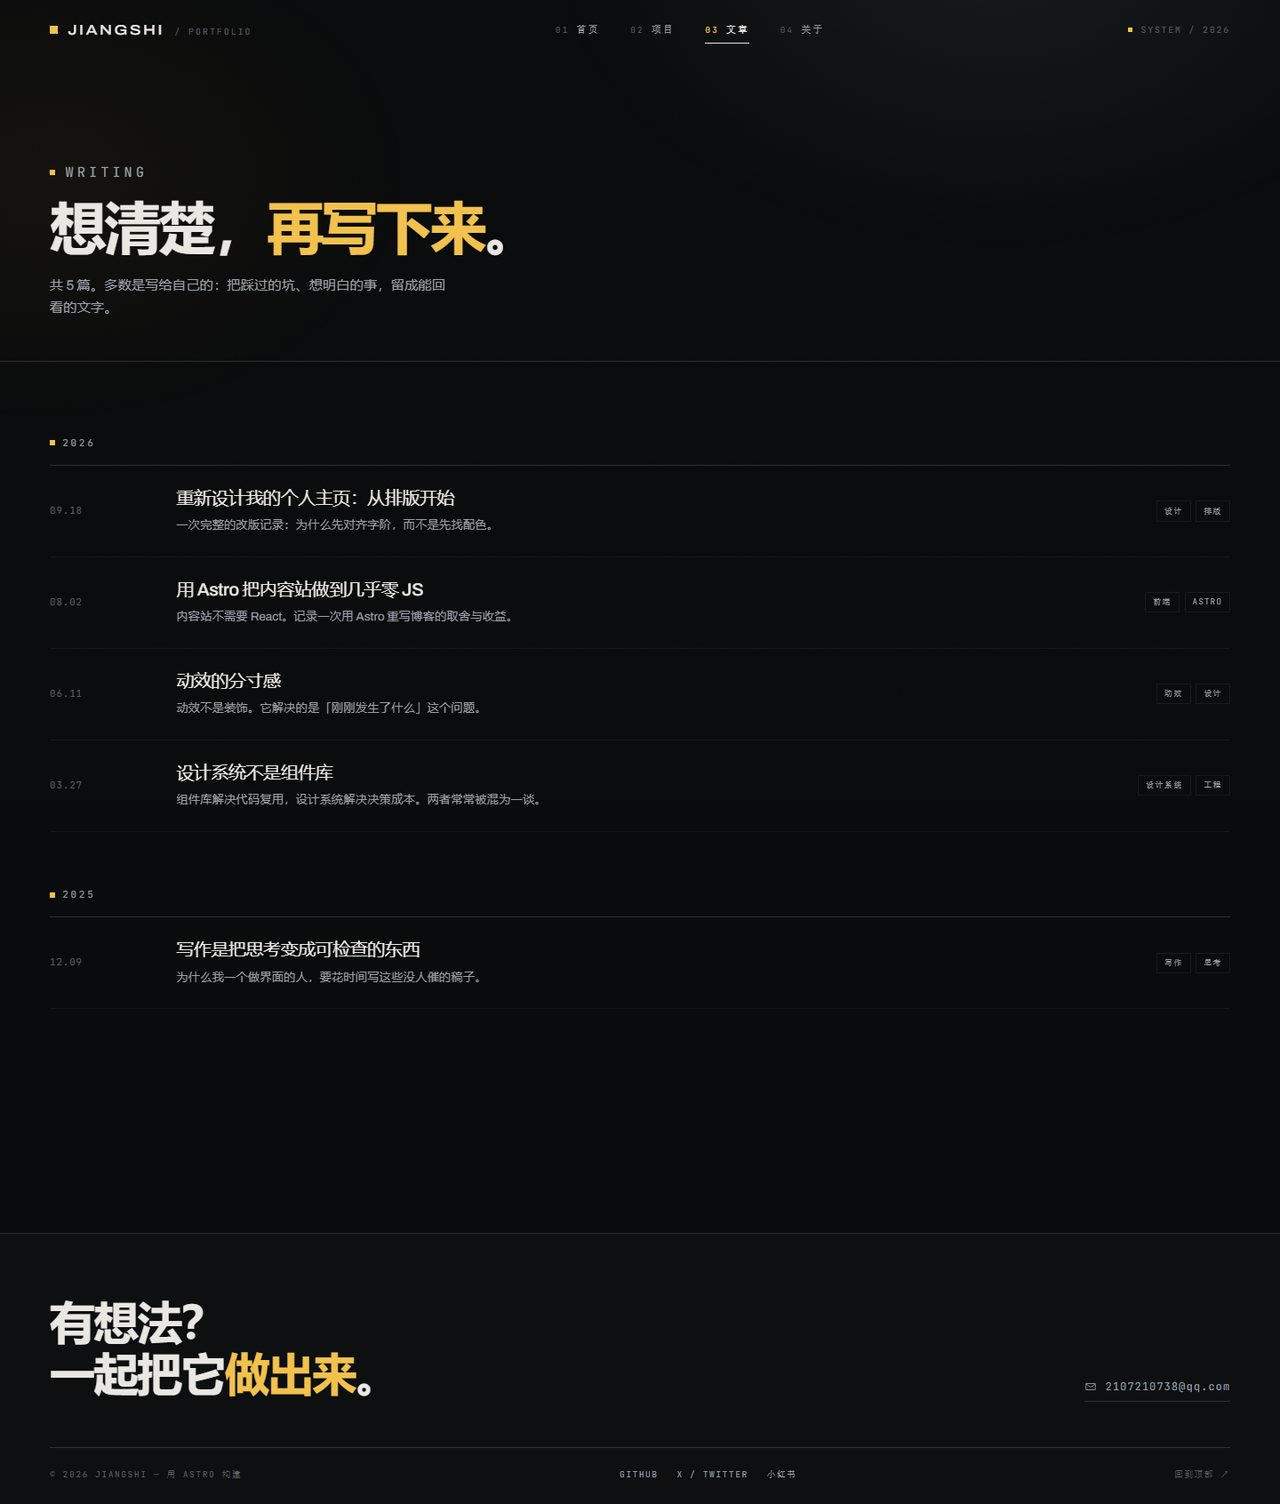
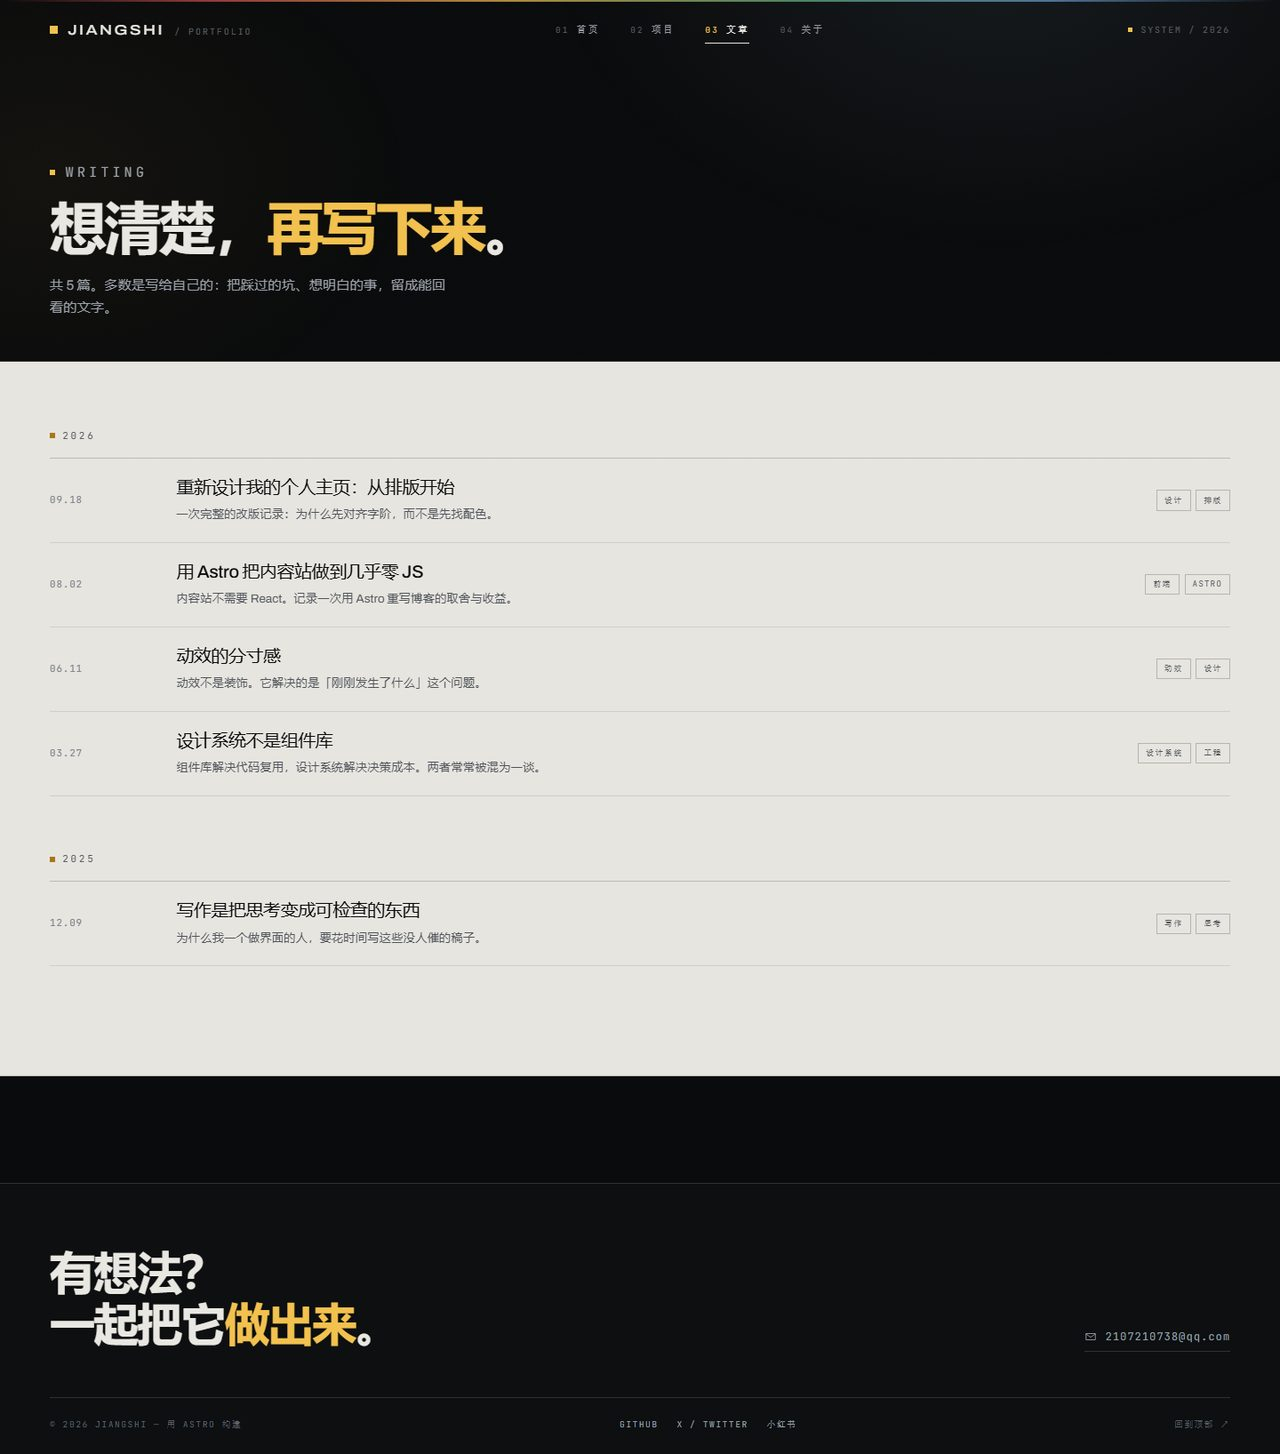
feat: 深/浅面板交替 + 密度收紧，写作区块改成米白面板

diff --git a/src/styles/global.css b/src/styles/global.css
@@ -156,8 +156,51 @@ code, kbd { font-family: var(--mono); font-size: 0.86em; }
   position: relative;
 }
 
-.section { padding-block: clamp(64px, 9vw, 128px); position: relative; }
-.section--tight { padding-block: clamp(40px, 6vw, 76px); }
+.section { padding-block: clamp(56px, 7.5vw, 108px); position: relative; }
+.section--tight { padding-block: clamp(36px, 5vw, 68px); }
+
+/* 浅色面板：与深色区块交替，切出节奏 */
+.panel-paper {
+  background: #e7e5df;
+  color: #0a0b0c;
+  --paper: #0a0b0c;
+  --dim: #4f545c;
+  --faint: #7b808a;
+  --line: rgba(10, 11, 12, 0.2);
+  --line-soft: rgba(10, 11, 12, 0.1);
+  --line-strong: rgba(10, 11, 12, 0.42);
+  --signal: #a9761a;
+}
+
+.panel-paper::before,
+.panel-paper::after {
+  content: '';
+  position: absolute;
+  left: 0;
+  right: 0;
+  height: 1px;
+  background: rgba(10, 11, 12, 0.2);
+}
+
+/* 顶部沿用首屏那条彩色光带 */
+.panel-paper::before {
+  top: 0;
+  height: 2px;
+  background: linear-gradient(90deg, transparent, rgba(255, 96, 96, 0.55) 16%, rgba(242, 193, 78, 0.7) 40%, rgba(125, 226, 160, 0.55) 62%, rgba(126, 190, 255, 0.55) 82%, transparent);
+}
+.panel-paper::after { bottom: 0; }
+
+.panel-paper .btn--primary {
+  background: #0a0b0c;
+  border-color: #0a0b0c;
+  color: #e7e5df;
+}
+.panel-paper .btn--primary:hover { background: var(--signal); border-color: var(--signal); }
+
+.panel-paper .section-head__link:hover { color: #0a0b0c; border-color: #0a0b0c; }
+.panel-paper .post-row:hover { background: rgba(10, 11, 12, 0.045); }
+.panel-paper .post-row::before { background: #0a0b0c; }
+.panel-paper .tag { border-color: rgba(10, 11, 12, 0.22); color: #4f545c; }
 
 /* ---------- 5. 氛围层 ---------- */
 .ambient {
@@ -810,7 +853,7 @@ main { counter-reset: sec; }
   grid-template-columns: 104px minmax(0, 1fr) auto;
   align-items: center;
   gap: clamp(1rem, 3vw, 2.4rem);
-  padding: clamp(1.1rem, 2vw, 1.5rem) 0;
+  padding: clamp(0.95rem, 1.6vw, 1.25rem) 0;
   border-bottom: 1px solid var(--line-soft);
   position: relative;
   transition: background-color 0.4s var(--ease), padding-inline 0.5s var(--ease);

diff --git a/README.md b/README.md
@@ -149,6 +149,7 @@ GitHub Actions（[deploy.yml](.github/workflows/deploy.yml)）会自动构建并
 
 - **视觉语言**：近黑底 + 骨白字 + 唯一信号黄（`--signal`），所有分隔用 1px 细线，卡片/按钮全部直角
 - **字体**：Archivo Variable（用宽度轴撑到 118%，做大标题和数字）+ JetBrains Mono（标注、日期、编号），通过 npm 自托管，不请求外部 CDN
+- **面板**：深色区块与浅色面板（`class="panel-paper"`）交替，切出节奏；浅色面板里所有颜色变量就地反相，文字/细线/标签自动适配，不用改组件
 - **结构**：每个区块以「细线 + 编号 + 英文标签」的标题行开场，编号由 CSS 计数器自动生成（`counter-increment: sec`），加区块不用手改
 - **装饰**：首页瞄准环是手写 SVG（刻度由脚本生成），90 秒转一圈；颗粒用内联噪声；顶部一条彩色光带
 - **动效**：入场位移 18px / 800ms / ease-out；`prefers-reduced-motion` 下全部关闭
